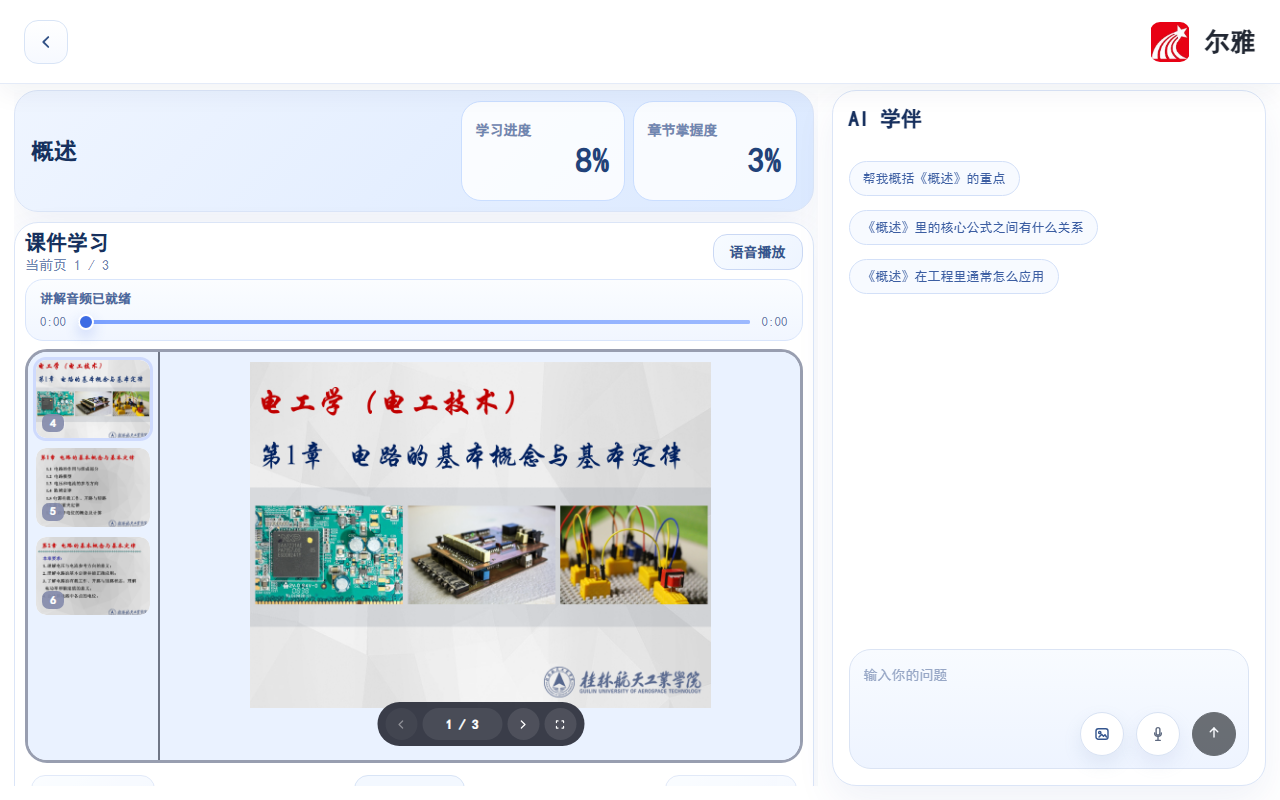
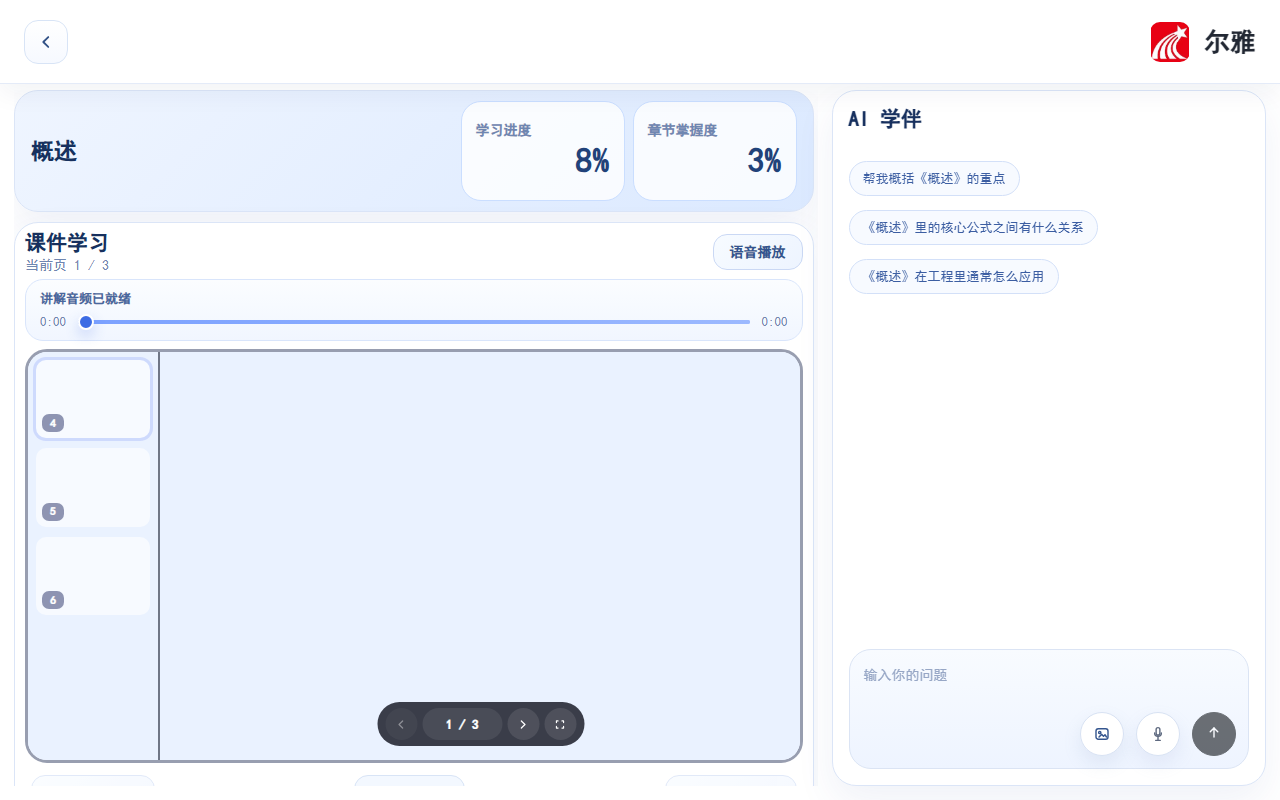
fix: s3

Changed region(s): [[0.1875, 0.4375, 0.5625, 0.9062], [0.0312, 0.4375, 0.125, 0.7812]]

diff --git a/backend/app/student_runtime/db_learning_service.py b/backend/app/student_runtime/db_learning_service.py
@@ -47,14 +47,9 @@ def _normalize_audio_asset_url(url: str | None) -> str:
         return ""
     
     from backend.app.common.config import get_settings
-    settings = get_settings()
-    if settings.s3_enabled:
-        if normalized.startswith("/"):
-            public_base = settings.s3_public_url.rstrip("/")
-            parsed_pub = urlsplit(public_base)
-            base_root = f"{parsed_pub.scheme}://{parsed_pub.netloc}"
-            return f"{base_root}{normalized}"
-        return normalized
+    import sys
+    if "unittest" not in sys.modules and get_settings().s3_enabled:
+        return _to_media_proxy_url(normalized)
 
     parsed = urlsplit(normalized)
     if parsed.scheme in {"http", "https"} and parsed.hostname in {"localhost", "testserver"} and parsed.path:
@@ -153,10 +148,33 @@ def _build_section_chapter_context(db: Session, section: LessonSection) -> dict[
         "scriptContent": script_content,
         "chapterContextText": "\n".join(parts).strip(),
     }
+def _to_media_proxy_url(url: str | None) -> str:
+    if not url:
+        return ""
+    if "media/file" in url:
+        return url
+        
+    key = None
+    for prefix in ["courseware/", "voice/", "qa/"]:
+        if prefix in url:
+            key = prefix + url.split(prefix, 1)[1]
+            break
+            
+    if key:
+        return f"/student-api/api/v1/media/file?key={key}"
+    return url
+
+
 def _normalize_image_asset_url(url: str | None) -> str:
     normalized = _normalize_asset_url(url)
     if not normalized:
         return ""
+        
+    from backend.app.common.config import get_settings
+    import sys
+    if "unittest" not in sys.modules and get_settings().s3_enabled:
+        return _to_media_proxy_url(normalized)
+
     path = urlsplit(normalized).path.lower()
     if any(path.endswith(ext) for ext in IMAGE_EXTENSIONS):
         return normalized

diff --git a/backend/app/teacher_runtime/status_service.py b/backend/app/teacher_runtime/status_service.py
@@ -35,19 +35,31 @@ def resolve_course(db: Session, external_course_id: str) -> Course | None:
     return db.query(Course).filter(Course.course_code == external_course_id).first()
 
 
+def _to_media_proxy_url(url: str | None) -> str:
+    if not url:
+        return ""
+    if "media/file" in url:
+        return url
+        
+    key = None
+    for prefix in ["courseware/", "voice/", "qa/"]:
+        if prefix in url:
+            key = prefix + url.split(prefix, 1)[1]
+            break
+            
+    if key:
+        return f"/student-api/api/v1/media/file?key={key}"
+    return url
+
+
 def _normalize_audio_asset_url(url: str | None) -> str:
     if not url:
         return ""
         
     from backend.app.common.config import get_settings
-    settings = get_settings()
-    if settings.s3_enabled:
-        if url.startswith("/"):
-            public_base = settings.s3_public_url.rstrip("/")
-            parsed_pub = urlsplit(public_base)
-            base_root = f"{parsed_pub.scheme}://{parsed_pub.netloc}"
-            return f"{base_root}{url}"
-        return url
+    import sys
+    if "unittest" not in sys.modules and get_settings().s3_enabled:
+        return _to_media_proxy_url(url)
 
     parsed = urlsplit(url)
     if parsed.scheme in {"http", "https"} and parsed.hostname in {"localhost", "testserver"} and parsed.path:

diff --git a/backend/app/compat/router.py b/backend/app/compat/router.py
@@ -1,6 +1,6 @@
-from threading import Thread
+from threading import Thread
 
-from fastapi import APIRouter, Depends, Request
+from fastapi import APIRouter, Depends, Request, Response
 from pydantic import ValidationError
 from sqlalchemy.orm import Session
 
@@ -222,3 +222,24 @@ async def play_lesson_endpoint(request: Request) -> dict:
     verify_signature_placeholder(typed_payload.enc, typed_payload.time)
     data = play_lesson(typed_payload)
     return success_response(request, data, msg="lesson playback prepared")
+
+
[email redacted]("/media/file")
+async def get_media_file(key: str):
+    import mimetypes
+    cleaned_key = key.replace("\\", "/").strip("/")
+    if not (cleaned_key.startswith("courseware/") or cleaned_key.startswith("voice/") or cleaned_key.startswith("qa/")):
+        raise ApiError(400, "非法的文件访问路径", status_code=400)
+        
+    try:
+        from backend.app.common.storage import get_storage_manager
+        storage_manager = get_storage_manager()
+        data = storage_manager.download_bytes(cleaned_key)
+        
+        mime_type, _ = mimetypes.guess_type(cleaned_key)
+        if not mime_type:
+            mime_type = "application/octet-stream"
+            
+        return Response(content=data, media_type=mime_type)
+    except Exception as e:
+        raise ApiError(404, f"获取媒体资源失败: {e}", status_code=404)

diff --git a/backend/app/student_runtime/router.py b/backend/app/student_runtime/router.py
@@ -1,10 +1,10 @@
-from uuid import uuid4
+from uuid import uuid4
 
 import asyncio
 import json
 
 from fastapi import APIRouter, Depends, Request, WebSocket, WebSocketDisconnect
-from fastapi.responses import JSONResponse, StreamingResponse
+from fastapi.responses import JSONResponse, Response, StreamingResponse
 from sqlalchemy.orm import Session
 
 from backend.app.common.db import get_db
@@ -484,3 +484,24 @@ async def notification_read(request: Request):
     if data is None:
         raise ApiError(404, "通知不存在", status_code=404)
     return response(200, "success", data, getattr(request.state, "request_id", None))
+
+
[email redacted]("/api/v1/media/file")
+async def get_media_file(key: str):
+    import mimetypes
+    cleaned_key = key.replace("\\", "/").strip("/")
+    if not (cleaned_key.startswith("courseware/") or cleaned_key.startswith("voice/") or cleaned_key.startswith("qa/")):
+        raise ApiError(400, "非法的文件访问路径", status_code=400)
+        
+    try:
+        from backend.app.common.storage import get_storage_manager
+        storage_manager = get_storage_manager()
+        data = storage_manager.download_bytes(cleaned_key)
+        
+        mime_type, _ = mimetypes.guess_type(cleaned_key)
+        if not mime_type:
+            mime_type = "application/octet-stream"
+            
+        return Response(content=data, media_type=mime_type)
+    except Exception as e:
+        raise ApiError(404, f"获取媒体资源失败: {e}", status_code=404)